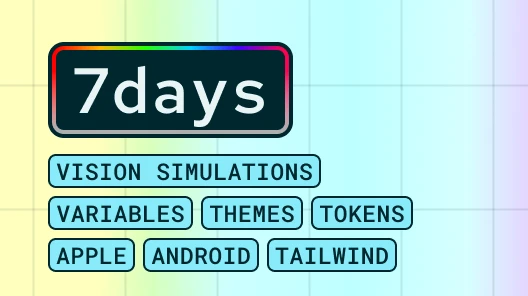
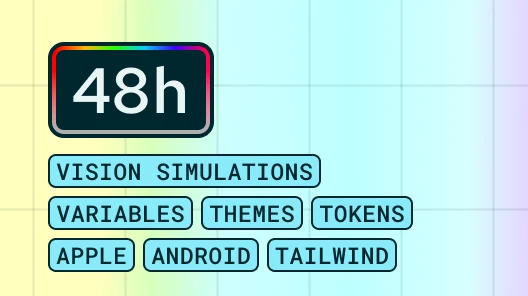
feat: reduce the trial time for the next ones

Changed region(s): [[0.1212, 0.1216, 0.5758, 0.4865]]

diff --git a/src/bridges/checkPlanStatus.ts b/src/bridges/checkPlanStatus.ts
@@ -1,47 +1,46 @@
 const checkPlanStatus = async () => {
-  // figma.clientStorage.deleteAsync('trial_start_date')
-  // figma.clientStorage.deleteAsync('is_trial_extended')
-  /*figma.clientStorage
-        .setAsync('trial_start_date', 1703286000000)*/
+  //figma.clientStorage.deleteAsync('trial_start_date')
+  //figma.clientStorage.deleteAsync('trial_version')
+  //figma.clientStorage.setAsync('trial_start_date', new Date().getTime() - (78 * 60 * 60 * 1000))
 
-  const trialTime = 168
-
-  let trialStartDate: number | undefined = await figma.clientStorage.getAsync(
+  const oldTrialTime = 168,
+    trialTime = 48,
+    trialStartDate: number | undefined = await figma.clientStorage.getAsync(
       'trial_start_date'
     ),
-    isTrialExtended: boolean | undefined = await figma.clientStorage.getAsync(
-      'is_trial_extended'
-    ),
-    consumedTime = 0,
+    trialVersion: string = await figma.clientStorage.getAsync(
+      'trial_version'
+    ) ?? '3.1.0'
+
+  let consumedTime = 0,
     trialStatus = 'UNUSED'
 
   if (trialStartDate != undefined) {
-    if (
-      trialStartDate < 1708988400000 &&
-      (isTrialExtended == undefined || !isTrialExtended)
-    ) {
-      figma.clientStorage.setAsync(
-        'trial_start_date',
-        new Date().getTime() - 259200000
-      )
-      figma.clientStorage.setAsync('is_trial_extended', true)
-      trialStartDate = new Date().getTime() - 259200000
-      isTrialExtended = true
-    }
     consumedTime = (new Date().getTime() - trialStartDate) / 1000 / (60 * 60)
-    trialStatus = consumedTime >= trialTime ? 'EXPIRED' : 'PENDING'
+
+    if (consumedTime <= oldTrialTime && trialVersion != '3.2.0')
+      trialStatus = 'PENDING'
+    else if (consumedTime >= trialTime)
+      trialStatus = 'EXPIRED'
+    else
+      trialStatus = 'PENDING'
   }
 
   /* await figma.payments?.setPaymentStatusInDevelopment({
     type: 'UNPAID',
   }) */
-  await figma.ui.postMessage({
+
+  figma.ui.postMessage({
     type: 'PLAN_STATUS',
     data: {
       planStatus:
         trialStatus === 'PENDING' ? 'PAID' : figma.payments?.status.type,
       trialStatus: trialStatus,
-      trialRemainingTime: Math.ceil(trialTime - consumedTime),
+      trialRemainingTime: Math.ceil(
+        trialVersion != '3.2.0'
+          ? oldTrialTime - consumedTime
+          : trialTime - consumedTime
+      ),
     },
   })
 }

diff --git a/src/content/locals.ts b/src/content/locals.ts
@@ -314,15 +314,15 @@ export const locals: { [key: string]: any } = {
         message:
           'This upgrade will unlock a range of tools that enable you to convert your color palette into a color system. We hope you will enjoy the benefits.',
         trial:
-          'This upgrade will unlock a range of tools that enable you to convert your color palette into a color system. We hope you will enjoy the benefits for the next 7 days.',
+          'This upgrade will unlock a range of tools that enable you to convert your color palette into a color system. We hope you will enjoy the benefits for the next 48 hours.',
         cta: "Let's build",
       },
       trial: {
         title:
-          'Would you like to upgrade to the Pro plan within the next 7 days?',
+          'Would you like to upgrade to the Pro plan within the next 48 hours?',
         message:
           'Explore the potential of synchronizing your color palette with variables, exporting it as design tokens, app resources, or for Tokens Studio and simulating a vision impairment.',
-        cta: 'Enable the 7-day trial',
+        cta: 'Enable the 48-hour trial',
         option: 'Purchase',
       },
     },

diff --git a/src/bridges/loadUI.ts b/src/bridges/loadUI.ts
@@ -130,7 +130,10 @@ const loadUI = async (palette: SceneNode) => {
         figma.currentPage.selection = scene
       },
       GET_PRO_PLAN: async () => await getProPlan(),
-      ENABLE_TRIAL: async () => await enableTrial(),
+      ENABLE_TRIAL: async () => {
+        await enableTrial()
+        await checkPlanStatus()
+      },
     }
 
     return actions[msg.type]?.()

diff --git a/src/ui/App.tsx b/src/ui/App.tsx
@@ -139,7 +139,7 @@ class App extends React.Component<Record<string, never>, States> {
       editorType: 'figma',
       planStatus: 'UNPAID',
       trialStatus: 'UNUSED',
-      trialRemainingTime: 168,
+      trialRemainingTime: 48,
       lang: 'en-US',
       priorityContainerContext: 'EMPTY',
       isLoaded: false,

diff --git a/src/bridges/enableTrial.ts b/src/bridges/enableTrial.ts
@@ -6,6 +6,9 @@ const enableTrial = async () => {
   await figma.clientStorage
     .setAsync('trial_start_date', date.getTime())
     .then(() => {
+      figma.clientStorage.setAsync('trial_version', '3.2.0')
+    })
+    .then(() => {
       figma.ui.postMessage({
         type: 'ENABLE_TRIAL',
       })
